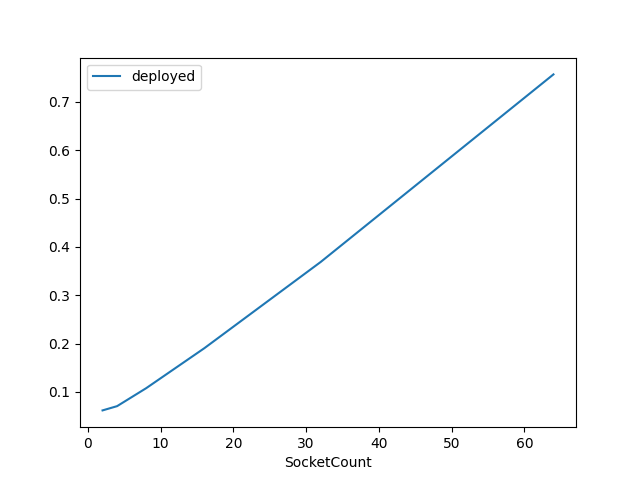
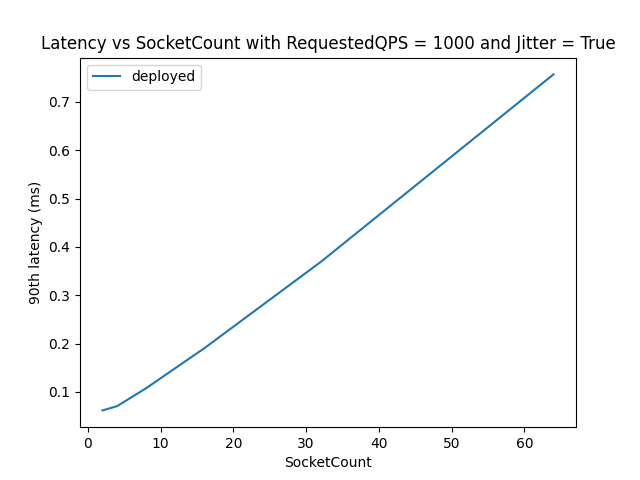
new figs

Changed region(s): [[0.0625, 0.0625, 0.875, 0.125], [0.0312, 0.375, 0.0625, 0.625], [0.9062, 0.0625, 0.9688, 0.125]]

diff --git a/performance_test/plot.py b/performance_test/plot.py
@@ -2,6 +2,7 @@ import json
 import glob
 import pandas as pd
 import sys
+from matplotlib import pyplot as plt
 
 class Plotter:
   def __init__(self):
@@ -61,8 +62,11 @@ class Plotter:
 
   def plot(self, jitter, param, default, percent):
     data = self.select_data(jitter, param, default, percent)
-    print(data)
     plot = data.plot()
+    plt.title("Latency vs {} with {} = {} and Jitter = {}".format(param, default, self.DEFAULT[default], jitter))
+    plt.ylabel(percent + "th latency (ms)")
+    print("Latency vs {} with {} = {} and Jitter = {}".format(param, default, self.DEFAULT[default], jitter))
+    print(data)
     fig = plot.get_figure()
     fig.savefig("figs/new_jitter={}_param={}_percent={}.png".format(jitter, param, percent))
 
